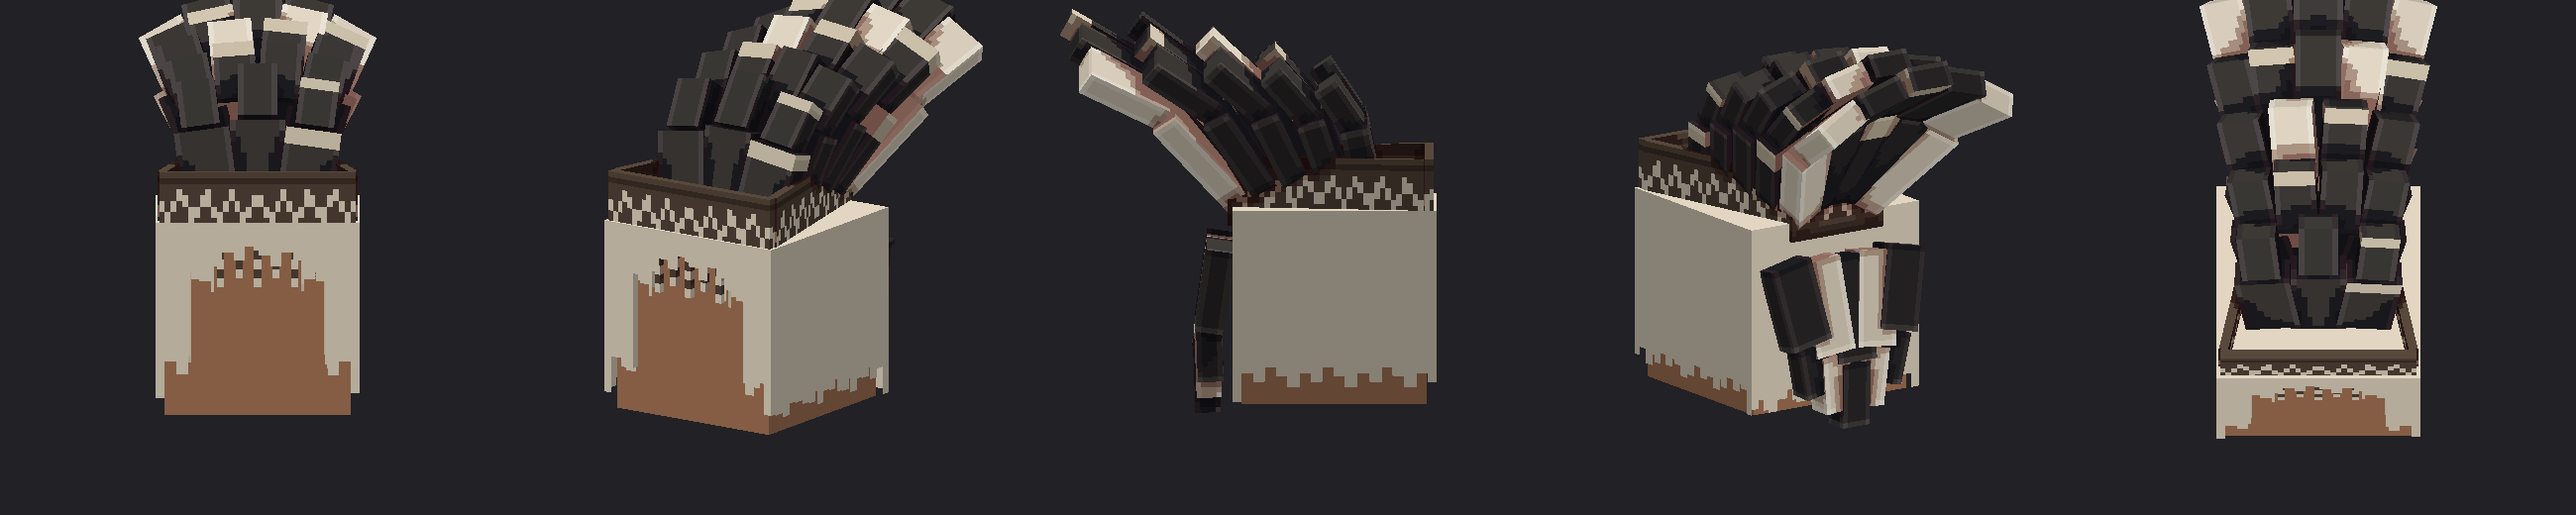
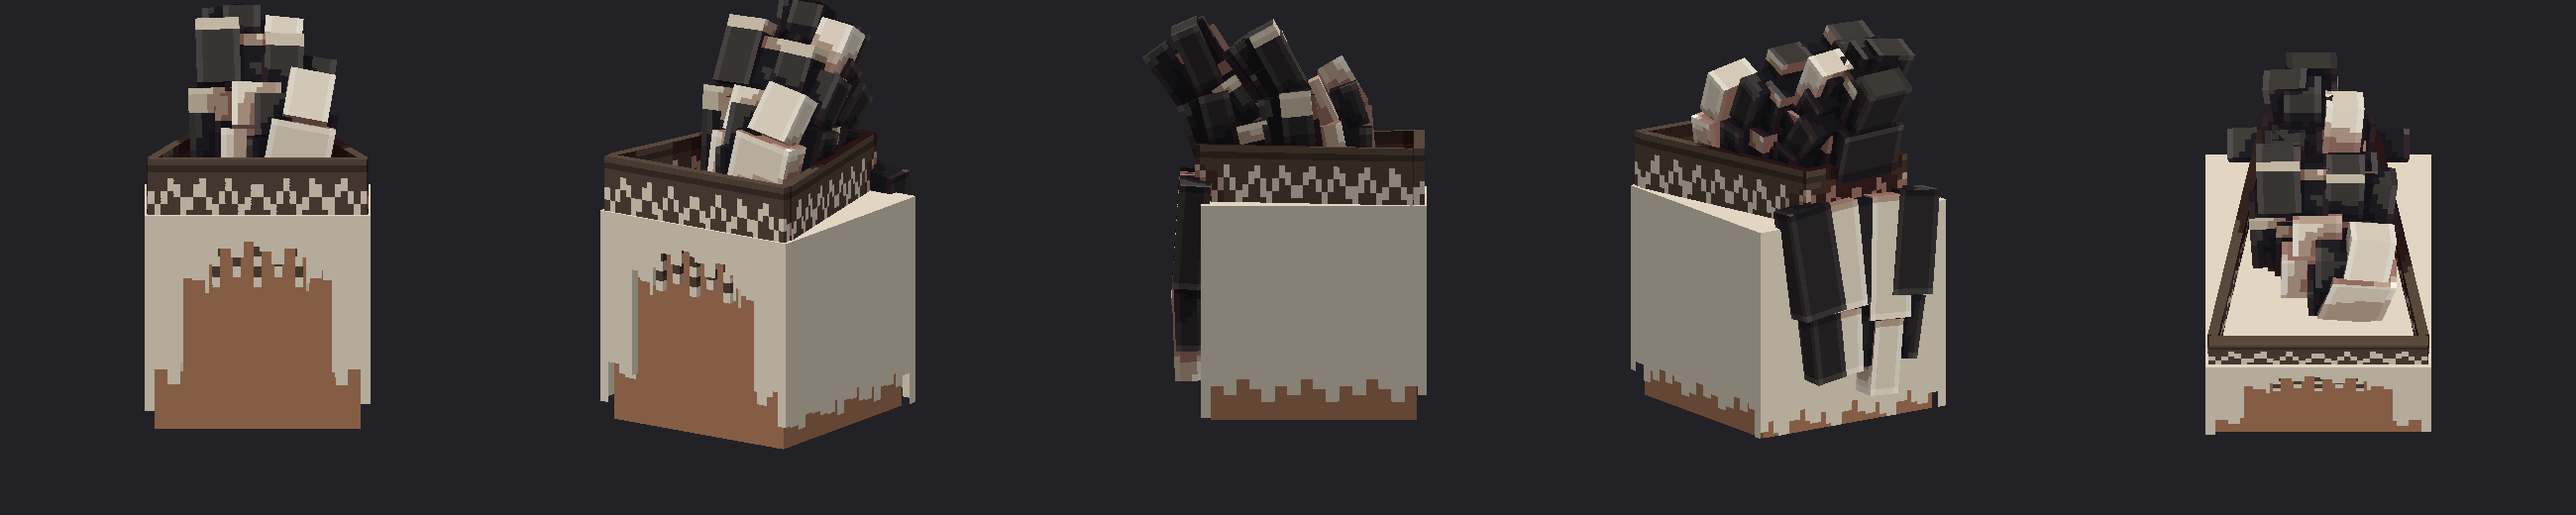
Kemira: penacho corto, parado y desparejo; pelo que baja de la diadema a la nuca
Claude-Session: https://claude.ai/code/session_01JLSuk79QgXUucDMTiBYitK

diff --git a/taller/personajes/kemira.py b/taller/personajes/kemira.py
@@ -146,32 +146,36 @@ def poner_figura(p, nombre, base, largo, ancho, rot, tono, punta=None, grosor=1.
 FX, FZ, BX, BZ = 4.1, -3.9, 2.2, 4.4                          # el trapecio de la diadema
 
 
+def _azar(k):
+    """Numero fijo entre 0 y 1 para la figura k (siempre el mismo: el penacho no cambia de un armado a otro)."""
+    return (math.sin(k * 12.9898 + 4.1414) * 43758.5453) % 1.0
+
+
 def penacho(p, T, C):
-    """El pelo de arriba como un penacho de figuras 3D cuadradas que se doblan: nace en la mitad de la frente,
-    adentro de la diadema (no la pisa), y va hacia atras en filas; las de adelante mas cortas y paradas, las de
-    atras mas largas y algo vencidas. Ademas, de la nuca sale otra tanda que cae hacia abajo."""
-    filas = 5
-    for r in range(filas):
-        f = r / (filas - 1)                                        # 0 adelante, 1 atras
-        z = -1.6 + 5.0 * f
+    """El pelo de arriba como un penacho de figuras 3D cuadradas que se doblan, cortas y desparejas: salen
+    adentro de la diadema (sin pisarla), casi paradas y apenas hacia atras, cada una con su lugar, largo y giro.
+    Desde el borde de atras de la diadema bajan otras figuras hasta la nuca."""
+    n = 30
+    for k in range(n):
+        f = (k + 0.5) / n                                          # de adelante hacia atras, mezclado abajo
+        z = -2.0 + 5.6 * (0.55 * f + 0.45 * _azar(k))
         t = (z - FZ) / (BZ - FZ)
-        mitad = FX + (BX - FX) * t - 0.45                          # medio ancho del trapecio adentro de las paredes
-        n = 3 + (r + 1) // 2
-        ancho = 2.4 + 0.6 * f
-        for k in range(n):
-            q = -1 + 2 * k / (n - 1)
-            x = q * max(0.0, mitad - ancho / 2)
-            a = q * (8 + 22 * f)
-            largo = (6.5 + 5.0 * f) * (1.0 - 0.1 * abs(q))
-            crema = (r >= 2 and (k + r) % 4 == 0)
-            tono = CREMA_PLUMA if crema else NEGRO
-            punta = None if crema or (k + r) % 3 else CREMA_PLUMA["s"]
-            poner_figura(p, f"figura{r}_{k}", (x, T + 0.4, z), largo, ancho, (12 + 26 * f, 0, -a), tono, punta)
-    # de la nuca: figuras que caen hacia abajo y un poco hacia atras
-    for k, x in enumerate((-3.0, -1.5, 0.0, 1.5, 3.0)):
-        largo = 6.0 + 1.5 * (1 - abs(x) / 3.0)
-        poner_figura(p, f"nuca{k}", (x, T - 1.2, 4.9), largo, 2.0, (172, 0, -x * 4), NEGRO if k % 2 == 0 else CREMA_PLUMA,
-                     dobla=10)
+        mitad = FX + (BX - FX) * t - 0.45
+        ancho = 2.0 + 0.9 * _azar(k + 50)
+        x = (2 * ((k * 0.618 + 0.3 * _azar(k + 100)) % 1.0) - 1) * max(0.0, mitad - ancho / 2)   # repartidas a lo ancho
+        largo = 3.8 + 3.0 * _azar(k + 150) + 1.2 * (z + 2.0) / 5.6
+        inclina = 4 + 16 * (z + 2.0) / 5.6 + 10 * (_azar(k + 200) - 0.5)
+        abre = -x * 5 + 16 * (_azar(k + 250) - 0.5)
+        crema = _azar(k + 300) < 0.2
+        tono = CREMA_PLUMA if crema else NEGRO
+        punta = None if crema or _azar(k + 350) < 0.6 else CREMA_PLUMA["s"]
+        poner_figura(p, f"figura{k}", (x, T + 0.4, z), largo, ancho, (inclina, 0, abre), tono, punta,
+                     dobla=10 + 18 * _azar(k + 400))
+    # del borde de atras de la diadema bajan figuras hacia la nuca, pegadas a la cabeza
+    for k, x in enumerate((-2.6, -1.3, 0.0, 1.3, 2.6)):
+        largo = 6.5 + 1.5 * _azar(k + 500)
+        poner_figura(p, f"nuca{k}", (x, T + 1.2, BZ + 0.2), largo, 1.9, (176, 0, -x * 3), NEGRO if k % 2 == 0 else CREMA_PLUMA,
+                     dobla=6)
 
 
 def construir():
